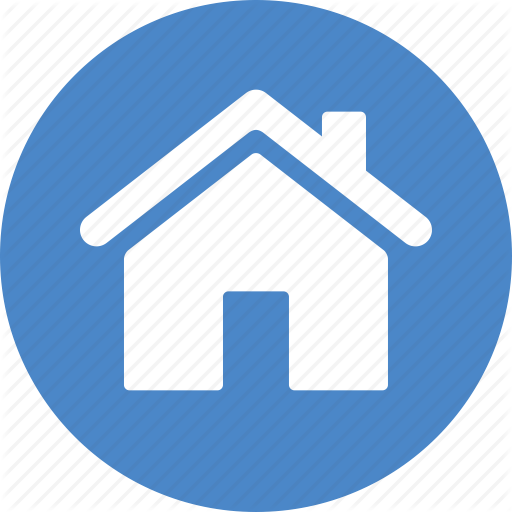
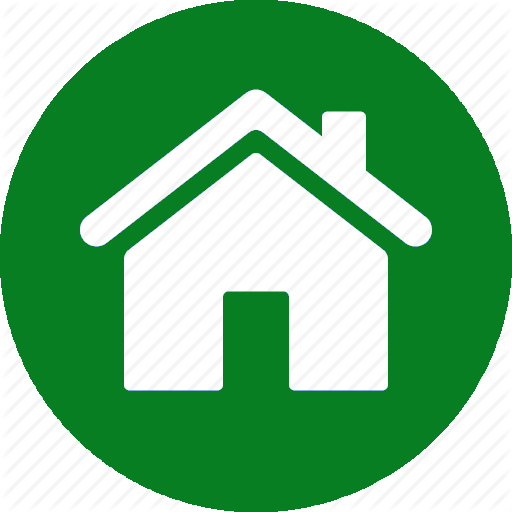
Recoloring navbars, buttons etc

diff --git a/public/stylesheets/hopper.css b/public/stylesheets/hopper.css
@@ -3,7 +3,7 @@ body {
 }
 
 .navbar {
-  background: #55B572;
+  background: #4CAF50;
   position: absolute;
   top: 0;
   left: 0;
@@ -194,7 +194,7 @@ body {
   width: 20px;
   padding: 4px;
   border-radius: 4px;
-  background: #4B84C4;
+  background: #087E23;
   float: right;
 
   position: relative;
@@ -207,7 +207,7 @@ body {
 }
 
 .sidebar .edit.clicked > img {
-  background: #3B5D86;
+  background: #0E6522;
   box-shadow: 0px 0px 1px #555;
 }
 
@@ -397,7 +397,7 @@ body {
     overflow-x: hidden;
 
     box-shadow: 0px 1px 2px 0px #444;
-    background: #349C54;
+    background: #4CAF50;
   }
 
   .sidebar.open {
